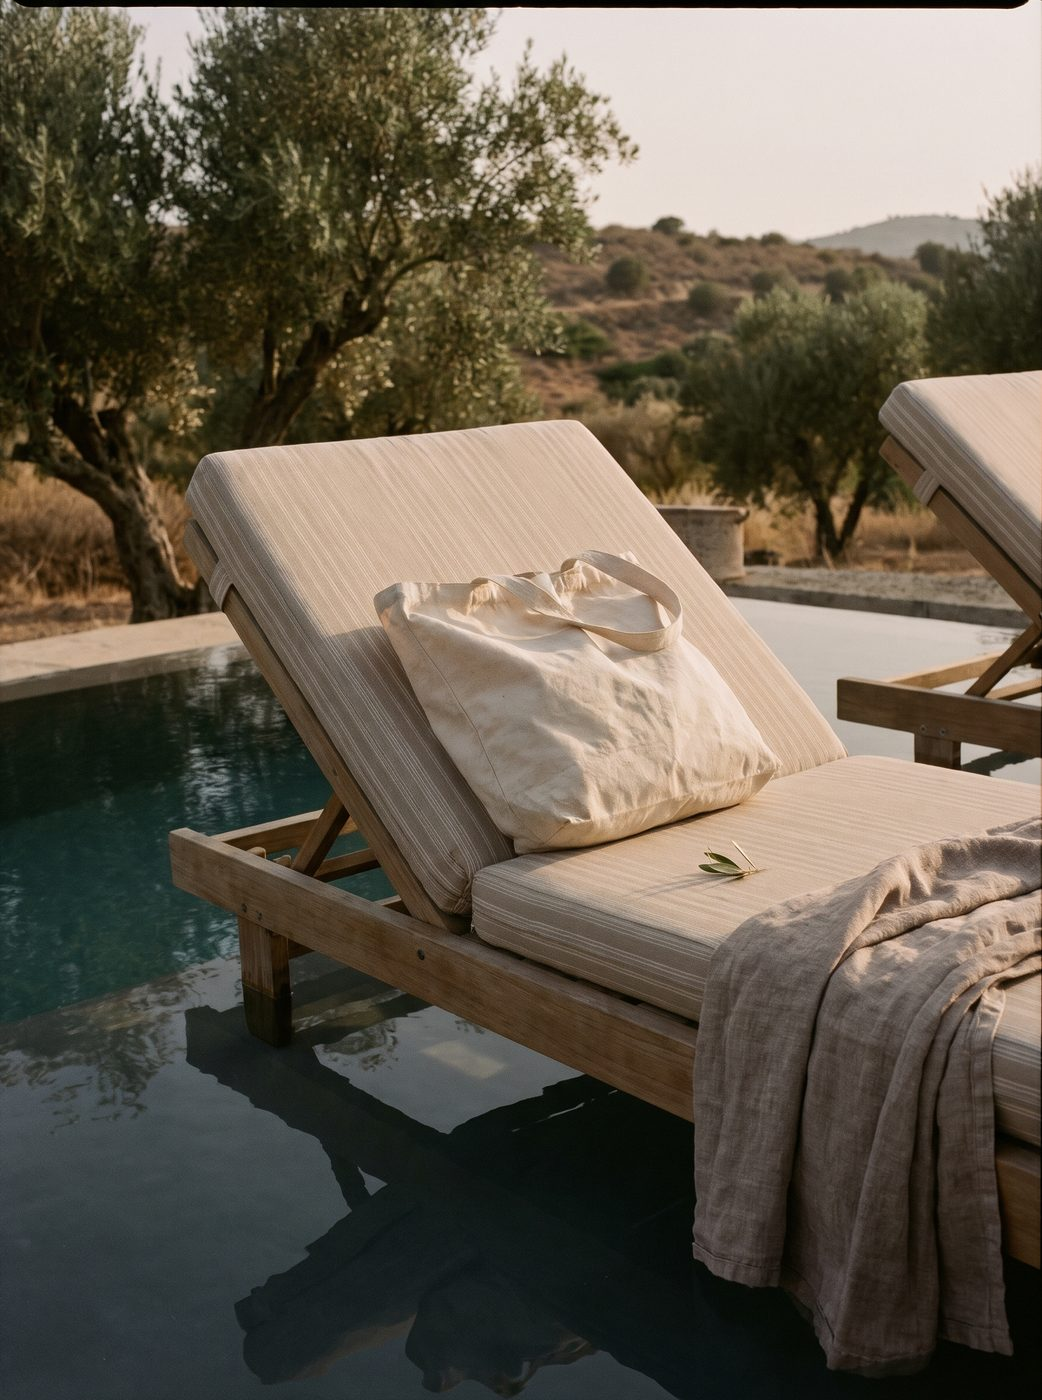
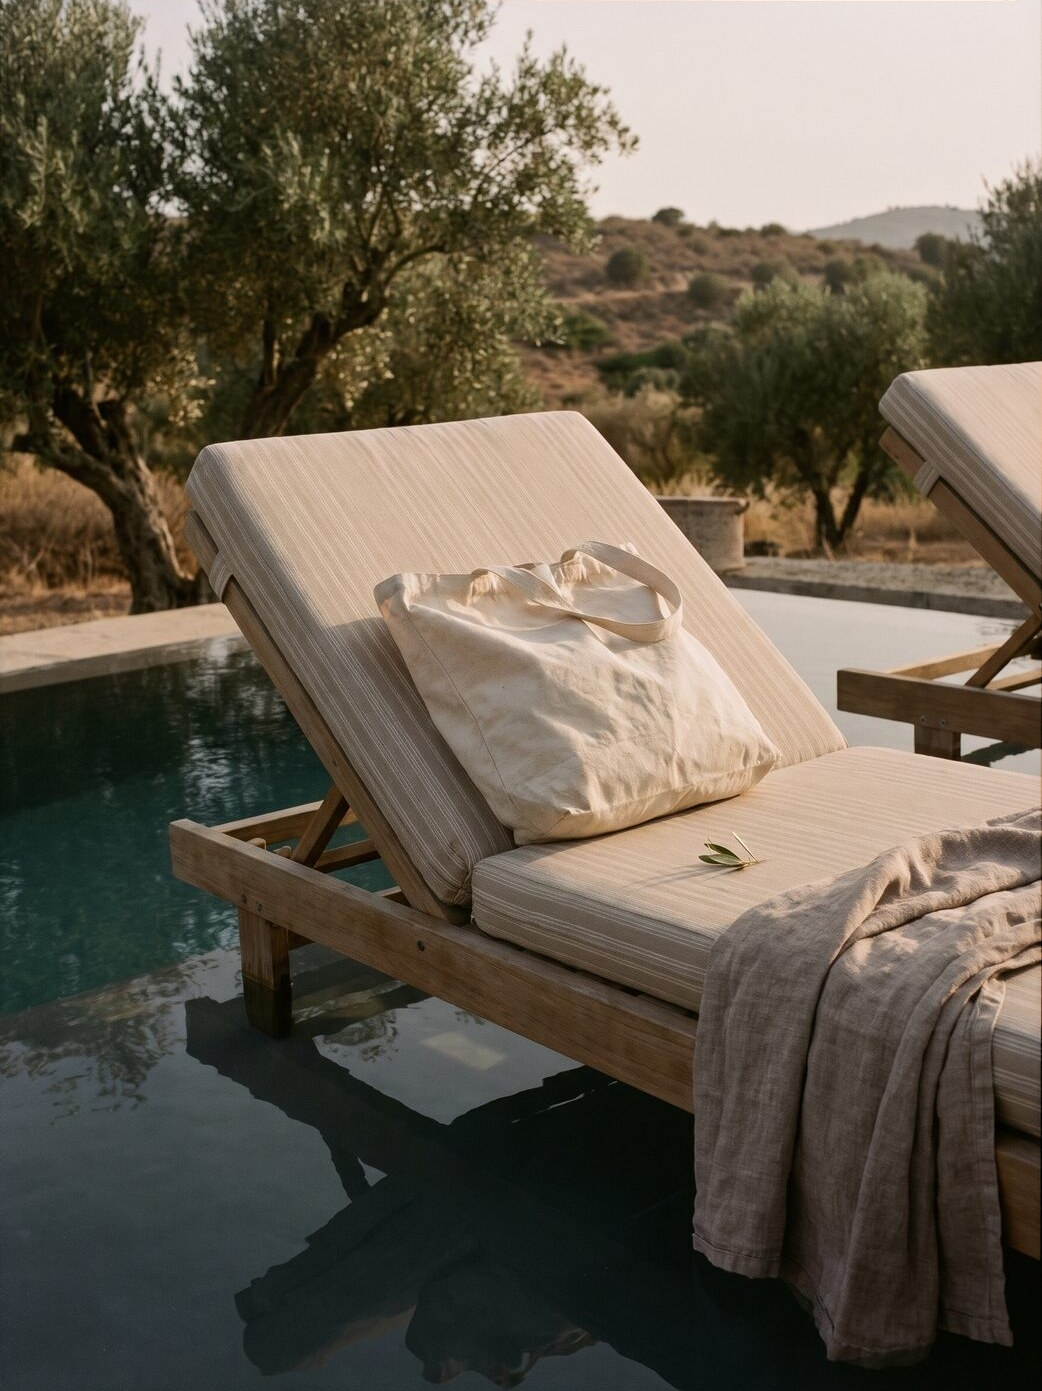
Equal-width venue cards; trim dark edge on hotel image
Claude-Session: https://claude.ai/code/session_017X6ri4gB89xhMXLJJk62Ji

diff --git a/index.html b/index.html
@@ -47,7 +47,7 @@ section{padding:110px 0}
 .head{display:flex;justify-content:space-between;align-items:end;gap:30px;margin-bottom:46px}
 .head p{max-width:420px;margin:0}
 /* segments */
-.seg{display:grid;grid-template-columns:repeat(3,1fr) .8fr;gap:16px}
+.seg{display:grid;grid-template-columns:repeat(4,1fr);gap:16px}
 .card{position:relative;text-decoration:none;display:block}
 .card .im{aspect-ratio:3/4;overflow:hidden;background:var(--linen)}
 .card .im img{transition:transform 1.2s ease}
@@ -55,7 +55,7 @@ section{padding:110px 0}
 .card h3{font-size:26px;margin:16px 0 4px}
 .card p{margin:0;font-size:14px}
 .seg .small .im{aspect-ratio:3/4}
-.seg .small h3{font-size:22px}
+.seg .small h3{font-size:26px}
 /* range */
 .range{background:var(--linen)}
 .rgrid{display:grid;grid-template-columns:repeat(7,1fr);gap:14px}
